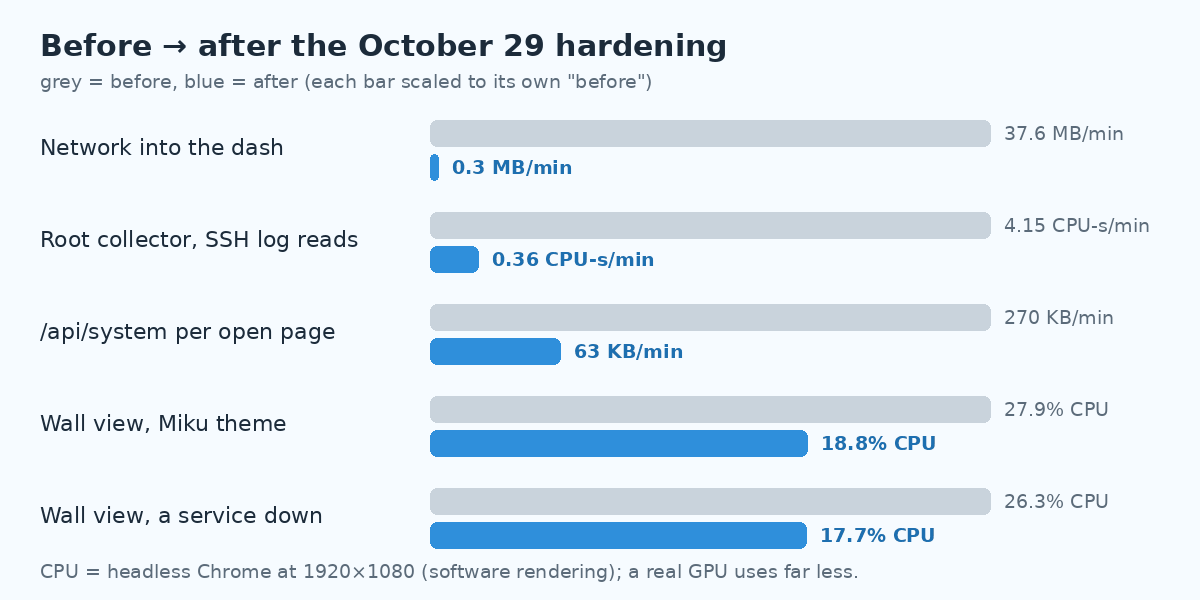
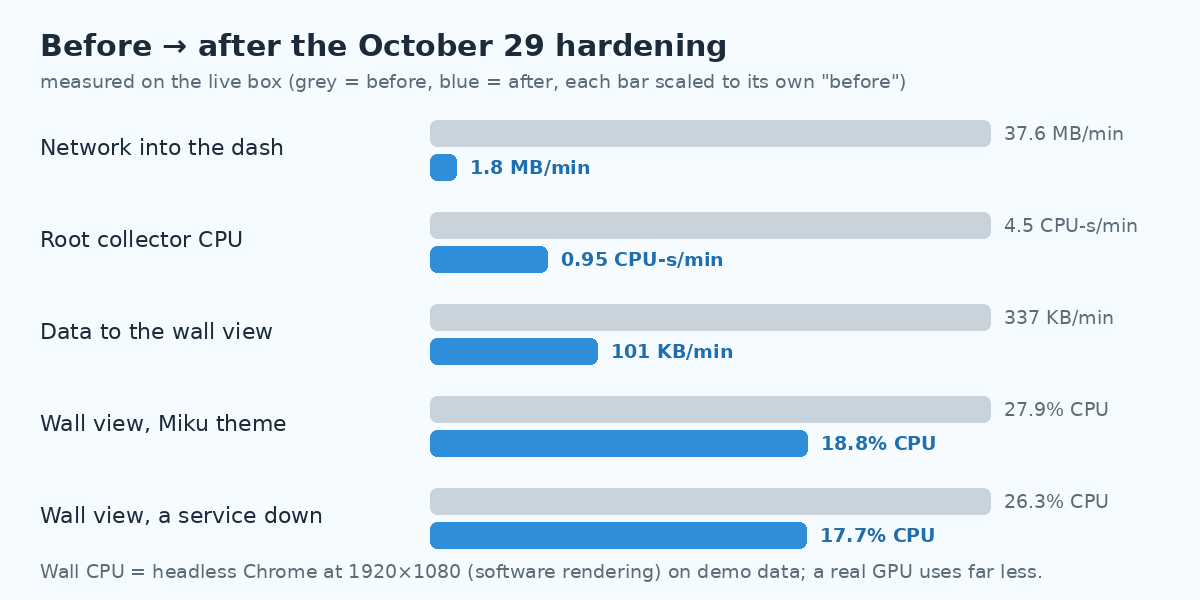
Docs: live before/after numbers; the README's network figure corrected
Why: the hardening is deployed, so the "after" numbers are now measured on the live install the same way
as the baseline. The README and chart said 0.3 MB/min into the dash: that's the torrent feed alone; the
container receives 1.8 MB/min in all (the health checks make up the rest).

What changed:
- PERF-BASELINE.md: an "After the hardening" section: collector CPU 4.52 -> 0.95 CPU-s/min, the
  once-a-minute gap 9.2 -> ~7 s, the dash 1.19% -> 0.72% of a core and 37.6 -> 1.77 MB/min received, the
  wall runs per theme (Gura's rays explained).
- README.md: the efficiency bullets give the live totals (network 37.6 -> 1.8 MB/min, collector
  4.5 -> 0.95 CPU-s/min, the gap ~7 s).
- docs/efficiency-2026-10-29.png: redrawn with the live numbers.

Claude-Session: https://claude.ai/code/session_01XraPbUpJ1UBiPSNWns9yDC

diff --git a/PERF-BASELINE.md b/PERF-BASELINE.md
@@ -95,3 +95,28 @@ What the numbers say:
 
 DOM nodes and event listeners stay flat over the run (no leaks), JS heap ~1 MB, script time ~0.016 s a minute:
 the page's own JavaScript is cheap. Almost all of the cost is compositing and painting the animations.
+
+## After the hardening (2026-10-29, the same measurements on the live install)
+
+| Metric | Before | After |
+|---|---|---|
+| Root collector CPU (10 min) | 4.52 CPU-s/min | **0.95 CPU-s/min** |
+| Collector memory | 55–73 MiB | 50–197 MiB; the high end is page cache (52 MB anon, 90 MB file, reclaimable), 0 `max` events |
+| Round interval, once a minute | 9.1–9.2 s | **6.85–7.4 s** (normal rounds 5.02 s, as before) |
+| Detail file interval | ~64.3 s | ~62.1 s |
+| Collector minute, security round + SSH details (unprivileged run, same journal) | 3.85 + 1.47 s wall, 4.06 CPU-s | 1.55 + 0.03 s wall, 0.38 CPU-s |
+| Dash container CPU | 1.19% of a core | **0.72%** |
+| Dash container memory | 40–51 MiB | 25–39 MiB |
+| Dash container network received | 37.6 MB/min | **1.77 MB/min** (the torrent feed ~0.3 MB of it; the rest is the 54 health checks) |
+| `/api/system` per response | 13.8 KB | 3.2 KB (gzip) |
+| Wall display's own Chrome (real GPU) | 5.3% | 5.6% (same) |
+
+Headless Chrome, wall 1920×1080, 180 s:
+
+| Run | Before | After |
+|---|---|---|
+| Live data, Gura: CPU / KB per min / first load | 52.0% / 337 / 1.63 MB | 48.0% / 101 / 1.52 MB (fonts 204 → 96 KB, CSS 68 → 18 KB gzipped; the rest is the service icons from the CDN) |
+| Demo, Bubbles, all up | 18.7% | (unchanged look and cost) |
+| Demo, Miku, all up | 27.9%, 3,606 restyles/min | **18.8%**, 50 restyles/min |
+| Demo, Bubbles, one service down | 26.3%, 3,606 restyles/min | **17.7%**, 48 restyles/min |
+| Demo, Gura, all up | 47.1% | 47.1%: the swaying light rays (a large masked layer) are re-composited every frame. Look-alike variants (stepped, smaller layer, rotation only) cost the same; only static rays reach 18.9% |

diff --git a/README.md b/README.md
@@ -60,11 +60,12 @@ The big ones:
 
 ![Before and after: network, collector CPU, API traffic, wall-view CPU](docs/efficiency-2026-10-29.png)
 
-- **Torrents: 37.6 MB → 0.3 MB a minute.** The dash fetched qBittorrent's whole torrent list (3 MB for 1,500
+- **Network into the dash: 37.6 MB → 1.8 MB a minute.** It fetched qBittorrent's whole torrent list (3 MB for 1,500
   torrents) every 4 seconds to show the few active ones. It now uses qBittorrent's incremental feed (what its own web
-  UI does): the full list once, then only what changed (~24 KB).
-- **The root collector reads the SSH log once a minute, not three times, and ~10× cheaper each time** (`journalctl -n`
-  walked the whole 2 GB journal). Once a minute every tile used to wait 9 seconds for the security checks; now ~6.
+  UI does): the full list once, then only what changed (~24 KB, ~0.3 MB a minute; the rest is the health checks).
+- **The root collector: 4.5 → 0.95 CPU-seconds a minute.** It reads the SSH log once a minute instead of three times,
+  ~10× cheaper each time (`journalctl -n` walked the whole 2 GB journal). Once a minute every tile used to wait 9 seconds
+  for the security checks; now ~7.
 - **Everything the server sends is compressed** (the proxy only compressed HTML): `/api/system` 13.8 → 3.2 KB per poll.
   Reloads get "not modified" for every file that didn't change.
 - **Miku's equalizer and the pulsing "down" badge run on the GPU** (they used to repaint 60 times a second): the wall
